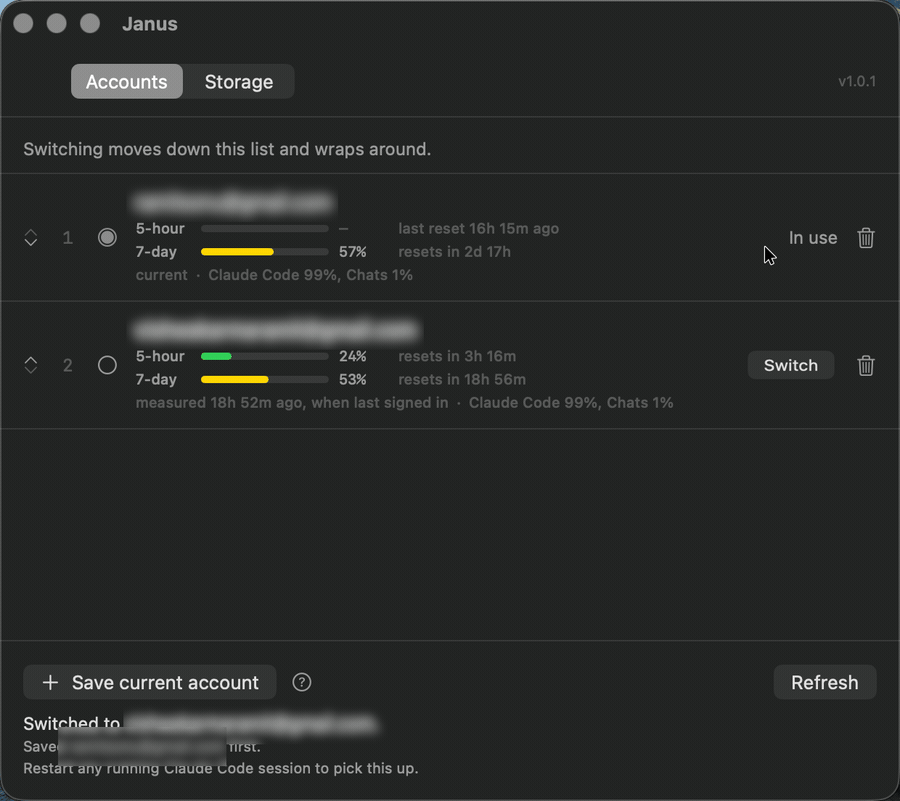
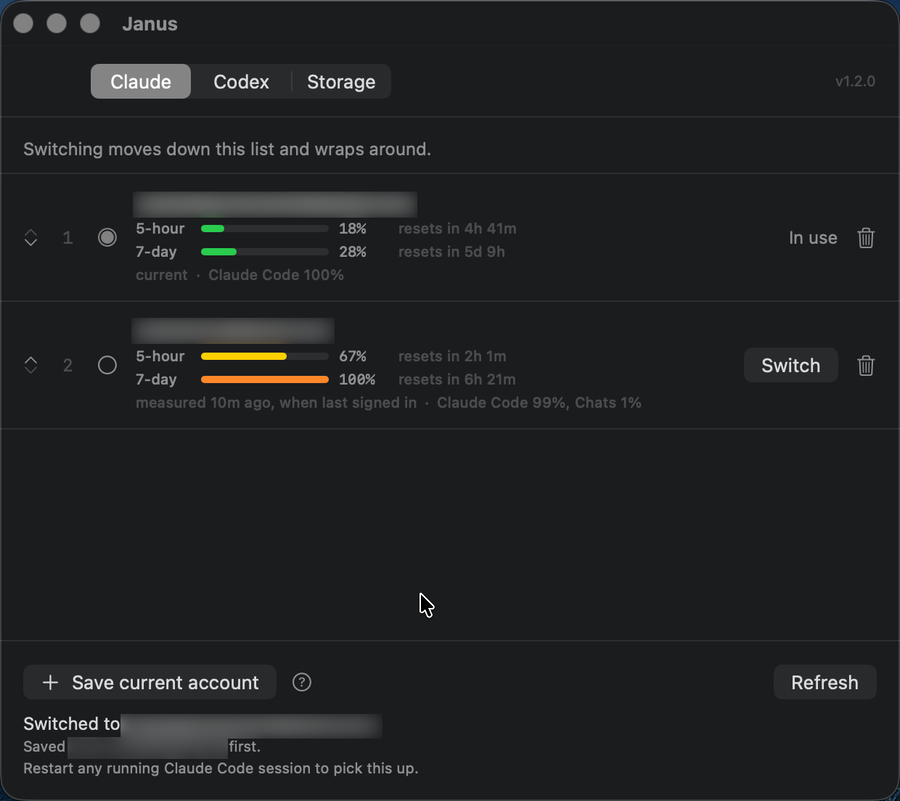
Show the Codex tab in the README's demo (#16)
The GIF opened on a Claude Code switch in the v1.0.1 window, which had no
Codex tab. It now goes Claude, then Codex, then switches Codex from the
account at 100% of its weekly limit to the one at 0%. The screenshot is the
v1.2.0 window with its three tabs.

Every email address is blurred. Text recognition located them in each frame,
and a second pass over the finished GIF found none left readable.

diff --git a/README.md b/README.md
@@ -9,7 +9,7 @@ hold onto.
 [![License: MIT](https://img.shields.io/badge/license-MIT-blue.svg)](LICENSE)
 ![macOS 13+](https://img.shields.io/badge/macOS-13%2B-lightgrey)
 
-![Janus switching between two saved Claude Code accounts](demo/demo.gif)
+![Janus switching Codex from an account at its weekly limit to one with room left](demo/demo.gif)
 
 One click moves the live session, and the account it displaces is saved first.
 
